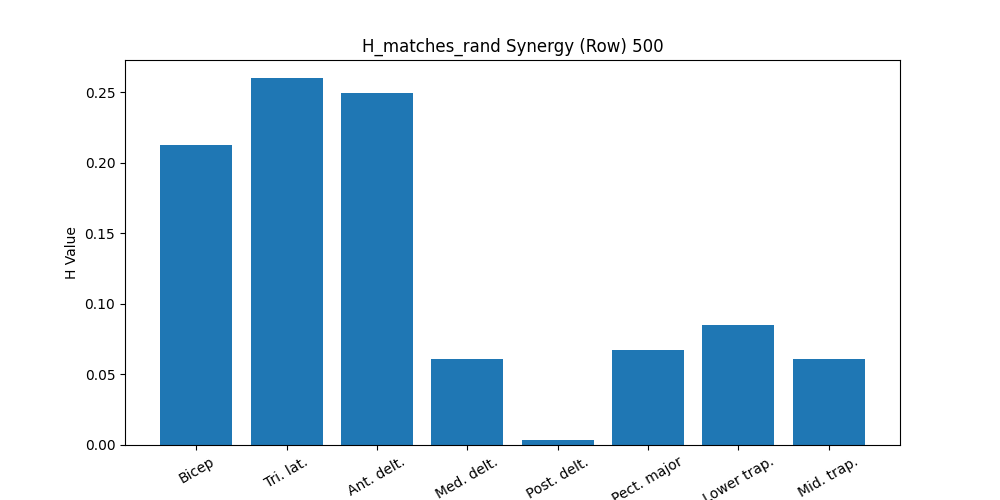
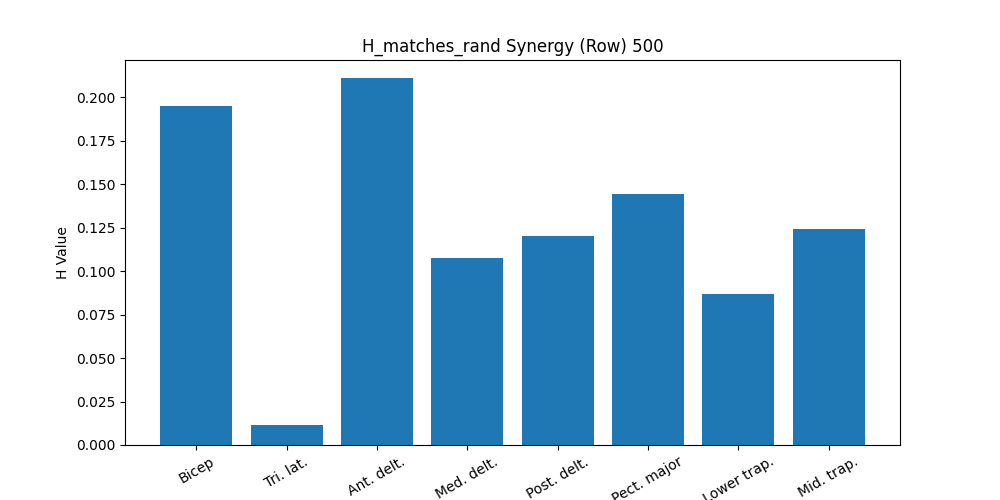
final changes

diff --git a/src/script/find_similar_synergies.py b/src/script/find_similar_synergies.py
@@ -378,7 +378,9 @@ def scalar_prod_similarity_ref_match_phases(task):
 
     # Find Hs for all the datasets
     H_ref, H_match, W_ref, W_match = find_ref_match_Hs(datasets, task)
+    print("H_ref before normalization: " + str(np.round(H_ref,3)))
     H_ref = normalize(H_ref, norm='l1')
+    print("H_ref after normalization: " + str(np.round(H_ref,3)))
     H_match = normalize(H_match, norm='l1')
     print("H_ref: " + str(np.round(H_ref, 3)))
     print("H_match: " + str(np.round(H_match, 3)))
@@ -684,8 +686,8 @@ def scalar_prod_similarity_across_tasks(task1, task2, ref_or_match):
             print("Match for H_" + task1 + " row " + str(current_H_task1_row) + ": H_" + task2 + " row " + str(current_H_task2_row) + ", with H_" + task1 + ": " + str(np.round(H_task1[current_H_task1_row,:], 3)) + ", W_ " + task1 + ": " + str(np.round(W_task1_means[current_H_task1_row], 3)) + ", H_" + task2 + ": " + str(np.round(H_task2[current_H_task2_row,:], 3)) + ", W_" + task2 + ": " + str(np.round(W_task2_means[current_H_task2_row], 3)) + ", and scalar product: " + str(np.round(current_scalar_prod, 3)))
 
 if __name__ == "__main__":
-    #scalar_prod_similarity_ref_match_phases('50%')
-    scalar_prod_similarity_across_tasks('10%', '50%', 'match')
+    scalar_prod_similarity_ref_match_phases('30%')
+    #scalar_prod_similarity_across_tasks('10%', '50%', 'match')
     """
     Most similar: 10% and 30% match, 30% and 50% ref, 30% and 50% match
     Kinda similar: 10% and 50% ref, 10% and 50% match
